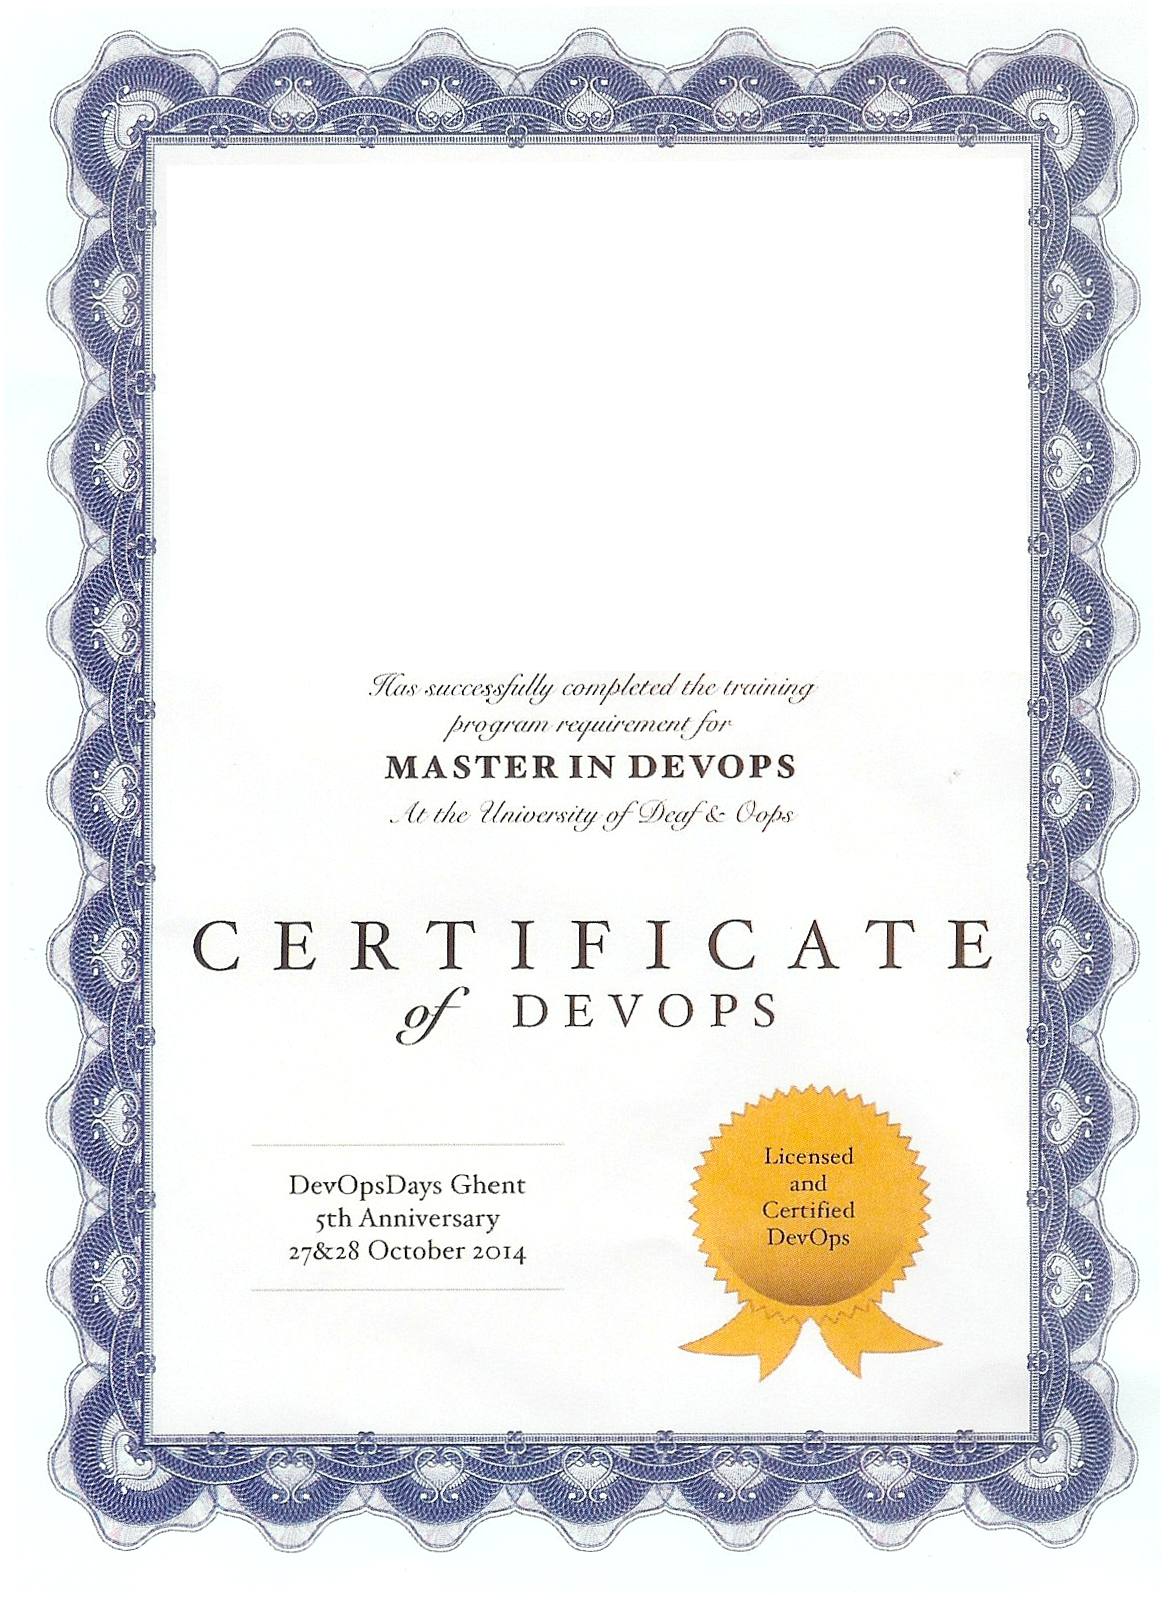
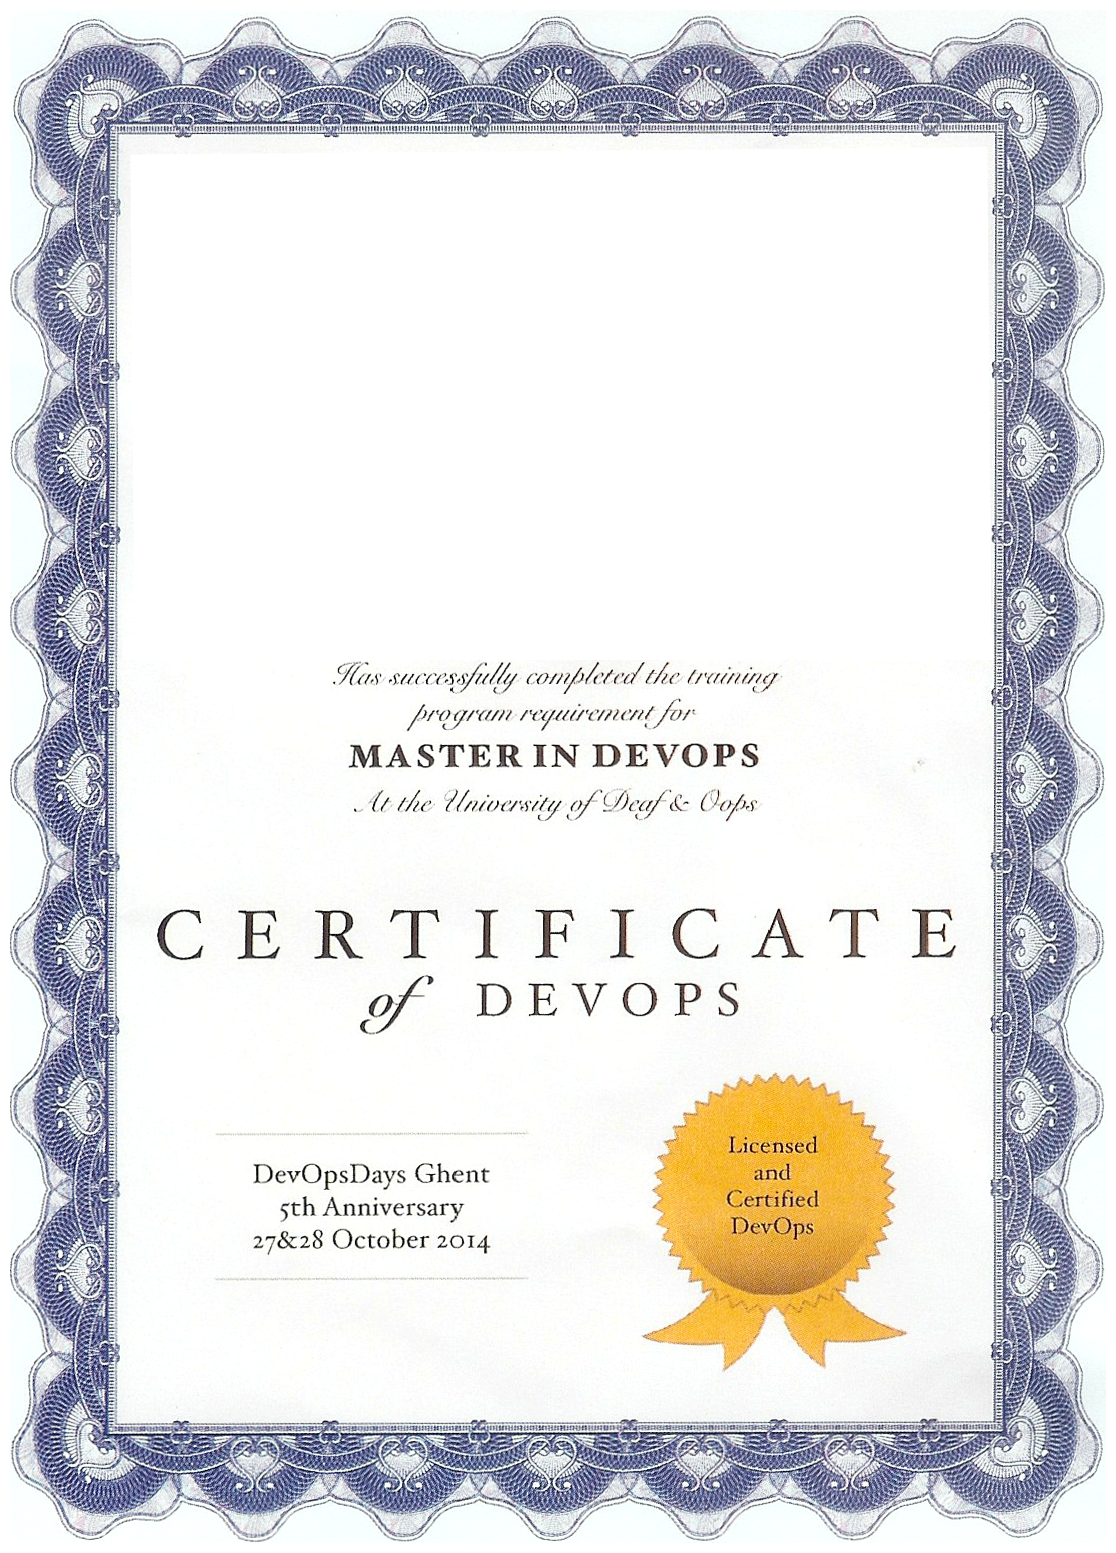
making it more official!
Added a unique number to each certificate (courtesy of
brooklynintegers, of course), changed the font to better match the
template, cleaned up the template a bit, automatically centered the
name and certificate number.

diff --git a/gendocert.py b/gendocert.py
@@ -1,25 +1,64 @@
 #!/usr/bin/env python
 
 import sys
+from httplib import HTTPConnection
+from urllib import urlencode
+from urlparse import urljoin
+from json import loads
 from reportlab.pdfgen import canvas
 
 OUTPUTFILE = 'certificate.pdf'
 
+def get_brooklyn_integer():
+    ''' Ask Brooklyn Integers for a single integer.
+    
+        Returns a tuple with number and integer permalink.
+	From: https://github.com/migurski/ArtisinalInts/
+    '''
+    body = 'method=brooklyn.integers.create'
+    head = {'Content-Type': 'application/x-www-form-urlencoded'}
+    conn = HTTPConnection('api.brooklynintegers.com', 80)
+    conn.request('POST', '/rest/', body, head)
+    resp = conn.getresponse()
+    
+    if resp.status not in range(200, 299):
+        raise Exception('Non-2XX response code from Brooklyn: %d' % resp.status)
+    
+    data = loads(resp.read())
+    value = data['integer']
+    return value
 
 def draw_pdf(sparklydevop):
     certimage = './devops.cert.png'
 
     # TODO make this a function of image size
     # TODO make sure we can read the file
-    c = canvas.Canvas(OUTPUTFILE, pagesize=(1147, 1608))
+    width = 1116
+    height = 1553
+
+    # Times Roman better fits the other fonts on the template
+    font_name = "Times-Roman"
+
+    # TODO make font size a function of name length
+    font_size = 72
+
+    c = canvas.Canvas(OUTPUTFILE, pagesize=(width, height))
+    c.setFont(font_name, font_size)
+
+    # Print Name
+    name_offset = c.stringWidth(sparklydevop)
     c.drawImage(certimage, 1, 1)
-    c.setFont("Helvetica", 72)
-    # TODO: calculate X for string based on length of username
-    c.drawString(375, 1175, sparklydevop)
+    c.drawString((width-name_offset)/2, height*3/4, sparklydevop)
+
+    # Print Certificate Number
+    cert_number = "Certificate No. " + str(get_brooklyn_integer())
+    cert_offset = c.stringWidth(cert_number) 
+    c.drawString((width-cert_offset)/2, height*3/4-font_size*2, cert_number)
+
     c.showPage()
+
     # TODO check for write permissions/failure
     c.save()
-
 
 if __name__ == "__main__":
     if len(sys.argv) != 2:
